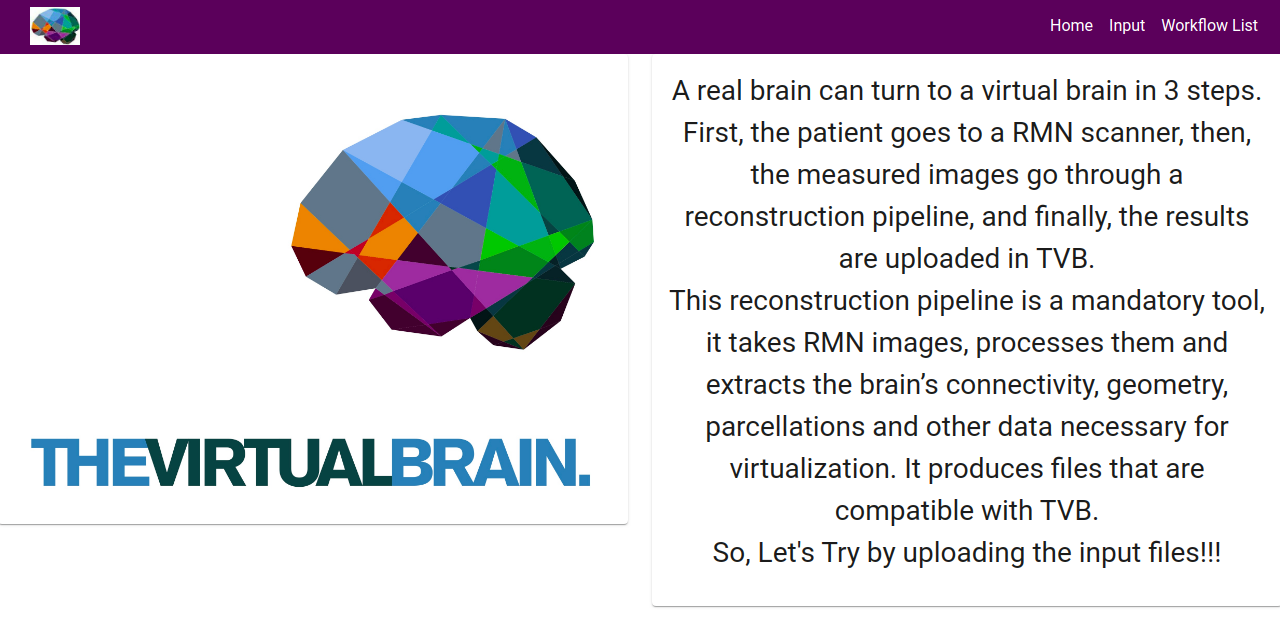
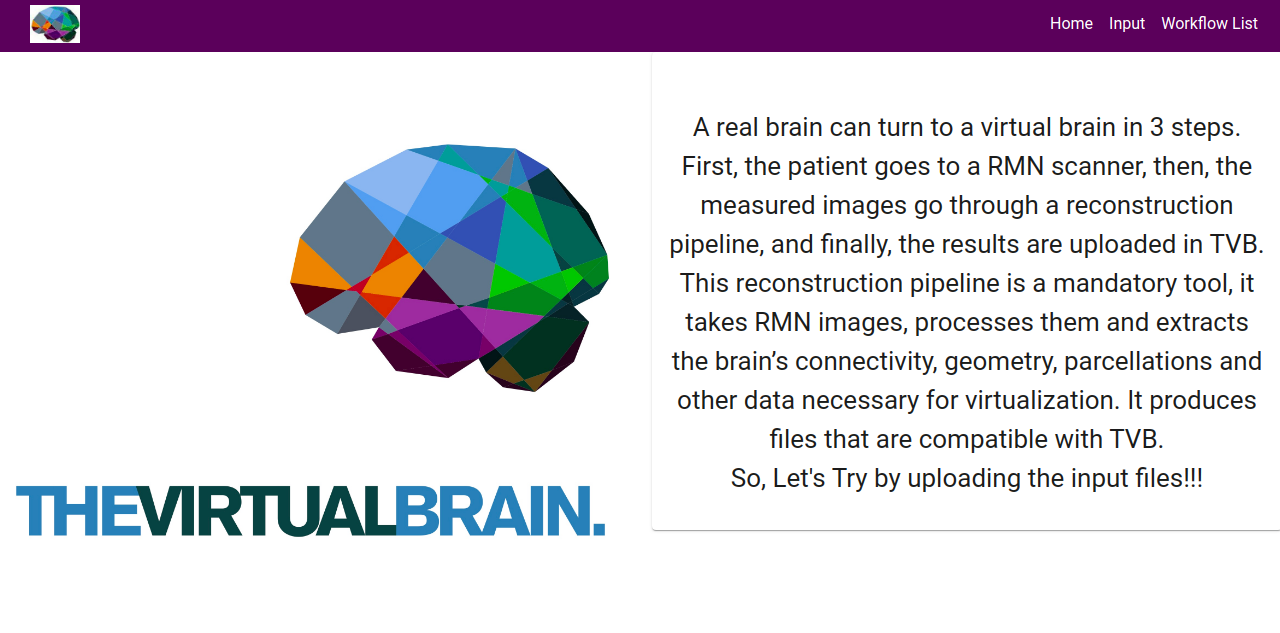
adding slider in home page

diff --git a/web/src/components/Home/Content/Content.js b/web/src/components/Home/Content/Content.js
@@ -2,7 +2,13 @@ import React from 'react';
 import { makeStyles } from '@material-ui/core/styles';
 import Paper from '@material-ui/core/Paper';
 import Grid from '@material-ui/core/Grid';
-import img1 from '../image/img1.jpeg';
+import AliceCarousel from 'react-alice-carousel'
+import 'react-alice-carousel/lib/alice-carousel.css'
+import input from './../image/Input.png'
+import configuration from './../image/Configuration.png'
+import job from './../image/JobList.png'
+import tvb from './../image/TVB.jpeg'
+import workflow from './../image/WorkflowList.png'
 const useStyles = makeStyles((theme) => ({
   root: {
     flexGrow: 1,
@@ -14,15 +20,17 @@ const useStyles = makeStyles((theme) => ({
   },
   img:{
     width:'100%',
-    height:'100%'
+    height:'100%',
+    paddingTop:'45px'
   },
   detail:{
-      fontSize:'28px',
-      
+      fontSize:'26px',
+      paddingTop:'40px'
+
       
   }
 }));
-
+const handleOnDragStart = (e) => e.preventDefault()
 export default function CenteredGrid() {
   const classes = useStyles();
 
@@ -30,10 +38,19 @@ export default function CenteredGrid() {
     <div className={classes.root}>
       <Grid container spacing={3}>
         <Grid item sm={6} md={6} lg={6}>
-          <Paper className={classes.paper}>
-          <img className={classes.img} alt="complex" src={img1} />
-
-          </Paper>
+          <AliceCarousel mouseTrackingEnabled={false}           buttonsDisabled={true}
+    dotsDisabled={true}
+    autoPlayInterval={1000}
+    autoPlayDirection="ltr"
+    autoPlay={true}
+    fadeOutAnimation={true}>
+      <img src={tvb} alt={tvb} onDragStart={handleOnDragStart} className={classes.img} />
+      <img src={input} alt={tvb} onDragStart={handleOnDragStart} className={classes.img} />
+      <img src={configuration} alt={tvb} onDragStart={handleOnDragStart} className={classes.img} />
+      <img src={workflow} alt={tvb} onDragStart={handleOnDragStart} className={classes.img} />
+      <img src={job} alt={tvb} onDragStart={handleOnDragStart} className={classes.img} />
+      
+    </AliceCarousel>
         </Grid>
         <Grid item sm={6} md={6} lg={6}>
           <Paper className={classes.paper}><p className={classes.detail}>A real brain can turn to a virtual brain in 3 steps. First, the patient goes to a RMN scanner, then, the measured images go through a reconstruction pipeline, 
@@ -42,8 +59,7 @@ export default function CenteredGrid() {
            it takes RMN images, processes them and extracts the brain’s connectivity, 
            geometry, parcellations and other data necessary for virtualization. It produces 
            files that are compatible with TVB.<br/> So, Let's Try by uploading the input files!!!</p> </Paper>
-        </Grid>
-        
+        </Grid>   
       </Grid>
     </div>
   );
